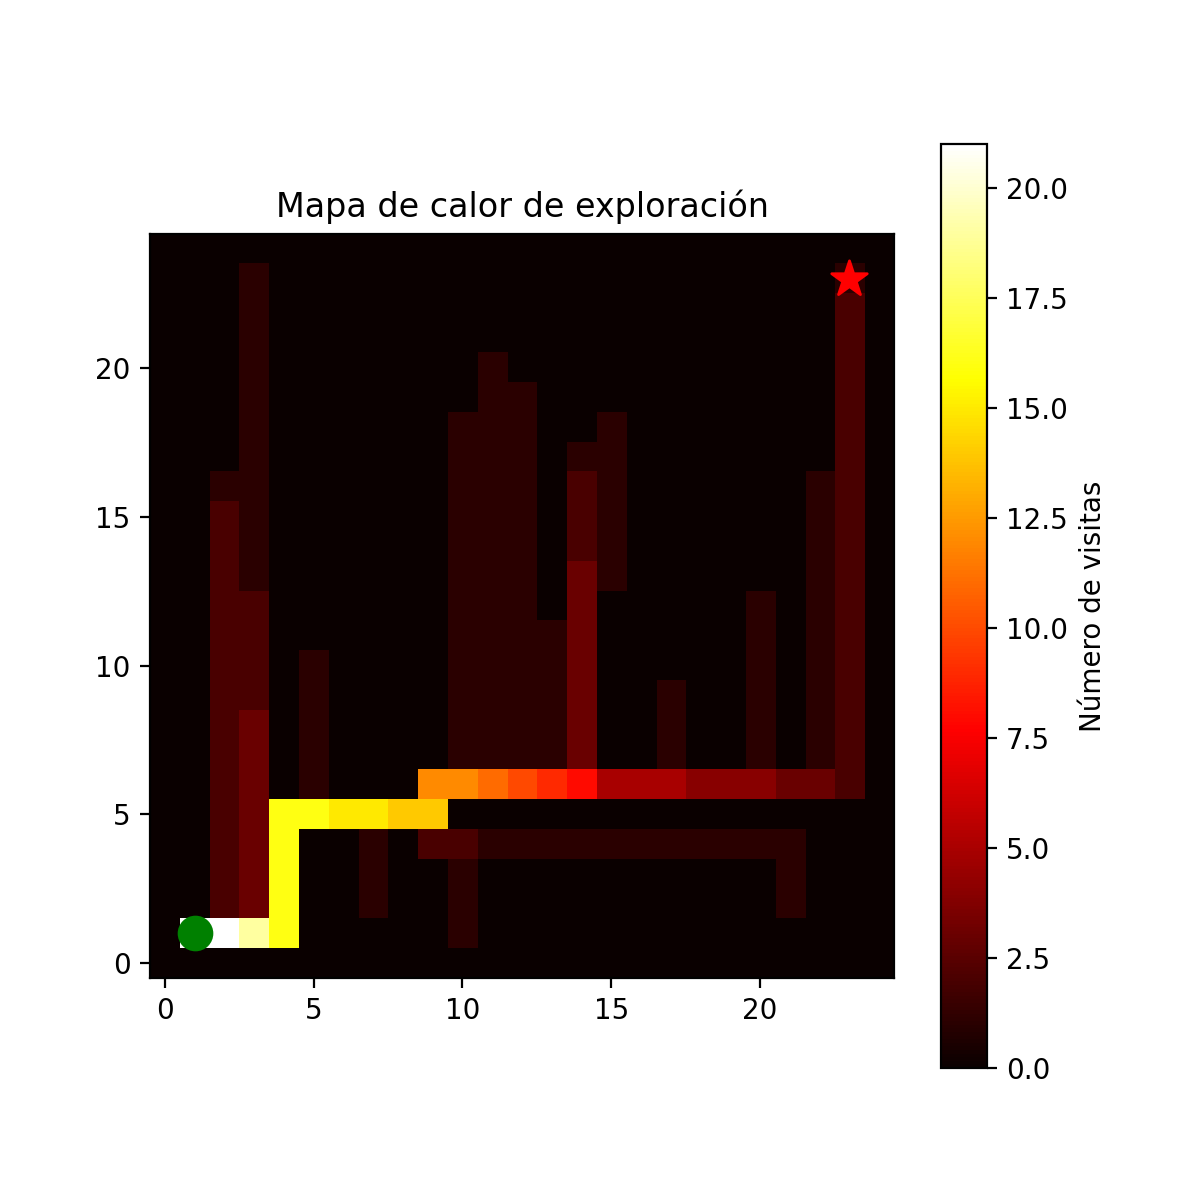
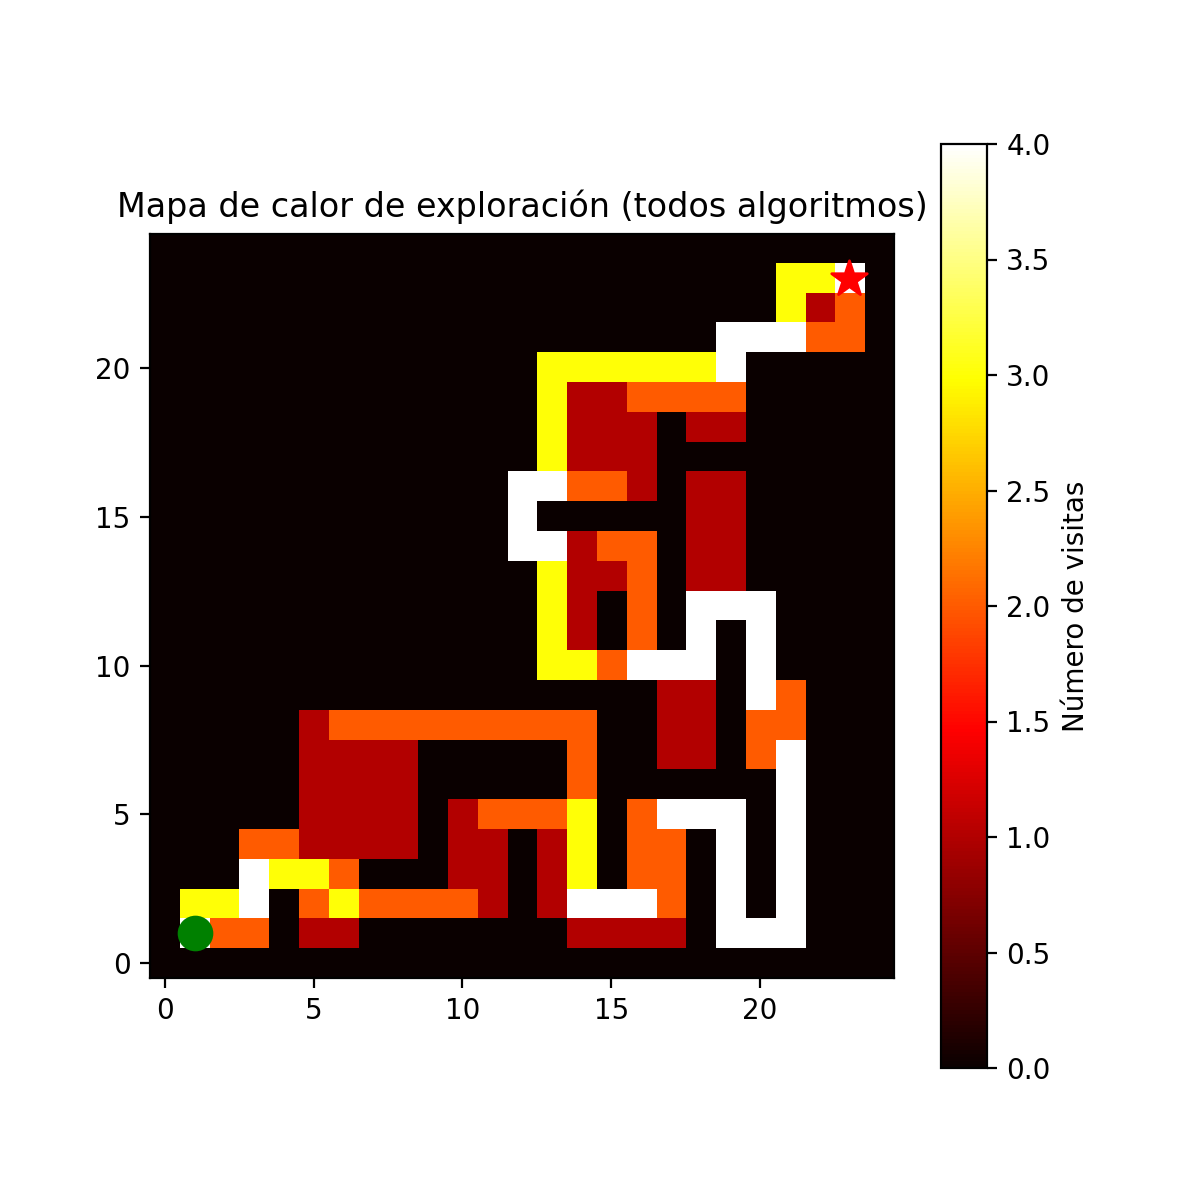
update laberinto

diff --git a/MinecraftAgente/src/laberinto.py b/MinecraftAgente/src/laberinto.py
@@ -24,10 +24,29 @@ def generar_laberinto(origen_x=0, origen_y=5, origen_z=0, tam=25):
 
     # Laberinto interno fijo (paredes)
     paredes = [
-        (5, 0), (5, 1), (5, 2), (5, 3), (5, 4),
-        (10, 5), (11, 5), (12, 5), (13, 5),
-        (15, 10), (15, 11), (15, 12),
-        (20, 15), (20, 16), (20, 17), (20, 18),
+        (1,3),(1, 11),(1,16),
+        (2,3),(2,11),(2,16),
+        (3,5),(3,6),(3,7),(3,8),(3,11),(3,16),(3,18),(3,19),(3,20),(3,21),(3,22),(3,23),
+        (4,1),(4,2),(4,5),(4,6),(4,7),(4,8),(4,9),(4,11),(4,13),(4,14),(4,15),(4,16),(4,18),(4,19),(4,20),(4,21),(4,22),(4,23),
+        (5,9),(5,11),(5,13),
+        (6,9),(6,11),(6,13),
+        (7,3),(7,9),(7,11),(7,13),(7,17),(7,18),(7,19),(7,20),
+        (8,3),(8,9),(8,11),(8,13),(8,16),
+        (9,3),(9,4),(9,5),(9,6),(9,7),(9,9),(9,11),(9,13),(9,17),(9,18),(9,19),(9,20),(9,21),(9,22),(9,23),
+        (10,7),(10,9),(10,11),(10,13),(10,17),
+        (11,7),(11,9),(11,13),(11,17),(11,21),
+        (12,1),(12,2),(12,3),(12,4),(12,7),(12,9),(12,10),(12,11),(12,12),(12,13),(12,17),(12,18),(12,19),(12,20),(12,21),
+        (13,7),(13,9),(13,15),(13,21),
+        (14,9),(14,15),(14,21),
+        (15,3),(15,4),(15,5),(15,6),(15,7),(15,8),(15,9),(15,12),(15,15),(15,21),
+        (16,6),(16,15),(16,21),
+        (17,6),(17,11),(17,12),(17,13),(17,14),(17,15),(17,16),(17,17),(17,18),(17,21),
+        (18,1),(18,2),(18,3),(18,4),(18,6),(18,17),(18,21),
+        (19,6),(19,7),(19,8),(19,9),(19,10),(19,11),(19,17),
+        (20,2),(20,3),(20,4),(20,5),(20,6),(20,13),(20,14),(20,15),(20,16),(20,17),(20,18),(20,19),(20,20),(20,22),(20,23),
+        (21,10),(21,16),(21,20),
+        (22,1),(22,2),(22,3),(22,4),(22,7),(22,10),(22,13),(22,16),(22,17),(22,18),(22,20),
+        (23,7),(23,10),(23,13),(23,20)
     ]
 
     for (x, z) in paredes:
@@ -41,4 +60,74 @@ def generar_laberinto(origen_x=0, origen_y=5, origen_z=0, tam=25):
     mc.setBlock(inicio[0], inicio[1], inicio[2], 35, 5)  # lana verde
     mc.setBlock(salida[0], salida[1], salida[2], 35, 14) # lana roja
 
+    return inicio, salida
+
+
+
+
+def generarlaberinto1(origen_x=0, origen_y=5, origen_z=0, tam=25):
+    # Limpieza y construcción similar a la actual
+    mc.setBlocks(origen_x-2, origen_y, origen_z-2,
+             origen_x+tam+2, origen_y+5, origen_z+tam+2, 0)
+
+    # Paredes exteriores
+    mc.setBlocks(origen_x, origen_y, origen_z,
+                 origen_x+tam, origen_y+3, origen_z, 1)  # muro norte
+    mc.setBlocks(origen_x, origen_y, origen_z+tam,
+                 origen_x+tam, origen_y+3, origen_z+tam, 1)  # muro sur
+    mc.setBlocks(origen_x, origen_y, origen_z,
+                 origen_x, origen_y+3, origen_z+tam, 1)  # muro oeste
+    mc.setBlocks(origen_x+tam, origen_y, origen_z,
+                 origen_x+tam, origen_y+3, origen_z+tam, 1)  # muro este
+
+    # Suelo plano
+    mc.setBlocks(origen_x, origen_y-1, origen_z,
+                 origen_x+tam, origen_y-1, origen_z+tam, 2)
+
+    paredes = [
+        # Muros ejemplo para laberinto 1
+        (5,0), (5,1), (5,2), (5,3), (5,4),
+        (10,5), (11,5), (12,5), (13,5),
+        (15,10), (15,11), (15,12),
+        (20,15), (20,16), (20,17), (20,18)
+    ]
+    # Construcción muros; usa el loop que tienes en la función
+    for x, z in paredes:
+        mc.setBlocks(origen_x+x, origen_y, origen_z+z, origen_x+x, origen_y+2, origen_z+z, 1)
+    inicio = (origen_x + 1, origen_y, origen_z + 1)
+    salida = (origen_x + tam - 1, origen_y, origen_z + tam - 1)
+    mc.setBlock(inicio[0], inicio[1], inicio[2], 35, 5)  # lana verde
+    mc.setBlock(salida[0], salida[1], salida[2], 35, 14)  # lana roja
+    return inicio, salida
+
+def generarlaberinto2(origen_x=0, origen_y=5, origen_z=0, tam=25):
+    paredes = [
+        # Distinta distribución de muros para laberinto 2
+        (2,3), (3,3), (4,3), (5,3), (6,3),
+        (7,10), (8,10), (9,10), (10,10),
+        (15,5), (15,6), (15,7),
+        (18,18), (19,18)
+    ]
+    for x, z in paredes:
+        mc.setBlocks(origen_x+x, origen_y, origen_z+z, origen_x+x, origen_y+2, origen_z+z, 1)
+    inicio = (origen_x + 1, origen_y, origen_z + 1)
+    salida = (origen_x + tam - 5, origen_y, origen_z + tam - 2)
+    mc.setBlock(inicio[0], inicio[1], inicio[2], 35, 5)
+    mc.setBlock(salida[0], salida[1], salida[2], 35, 14)
+    return inicio, salida
+
+def generarlaberinto3(origen_x=0, origen_y=5, origen_z=0, tam=25):
+    paredes = [
+        # Otra distribución diferente para laberinto 3
+        (1,10), (2,10), (3,10), (4,10), (5,10),
+        (10,15), (11,15), (12,15),
+        (14,20), (15,20), (16,20),
+        (21,21), (22,21)
+    ]
+    for x, z in paredes:
+        mc.setBlocks(origen_x+x, origen_y, origen_z+z, origen_x+x, origen_y+2, origen_z+z, 1)
+    inicio = (origen_x + 1, origen_y, origen_z + 1)
+    salida = (origen_x + 3, origen_y, origen_z + tam - 1)
+    mc.setBlock(inicio[0], inicio[1], inicio[2], 35, 5)
+    mc.setBlock(salida[0], salida[1], salida[2], 35, 14)
     return inicio, salida

diff --git a/MinecraftAgente/src/main.py b/MinecraftAgente/src/main.py
@@ -19,15 +19,34 @@ base_z = inicio_world[2] - 1
 # Coordenadas en grilla
 N = 25
 grid_inicio = (1, 1)
-grid_salida = (24, 24)
+grid_salida = (23, 23)
 
 # Construir laberinto (0 = libre, 1 = muro)
 laberinto = {(x, z): 0 for x in range(N) for z in range(N)}
 paredes_internas = [
-    (5,0),(5,1),(5,2),(5,3),(5,4),
-    (10,5),(11,5),(12,5),(13,5),
-    (15,10),(15,11),(15,12),
-    (20,15),(20,16),(20,17),(20,18)
+        (1,3),(1, 11),(1,16),
+        (2,3),(2,11),(2,16),
+        (3,5),(3,6),(3,7),(3,8),(3,11),(3,16),(3,18),(3,19),(3,20),(3,21),(3,22),(3,23),
+        (4,1),(4,2),(4,5),(4,6),(4,7),(4,8),(4,9),(4,11),(4,13),(4,14),(4,15),(4,16),(4,18),(4,19),(4,20),(4,21),(4,22),(4,23),
+        (5,9),(5,11),(5,13),
+        (6,9),(6,11),(6,13),
+        (7,3),(7,9),(7,11),(7,13),(7,17),(7,18),(7,19),(7,20),
+        (8,3),(8,9),(8,11),(8,13),(8,16),
+        (9,3),(9,4),(9,5),(9,6),(9,7),(9,9),(9,11),(9,13),(9,17),(9,18),(9,19),(9,20),(9,21),(9,22),(9,23),
+        (10,7),(10,9),(10,11),(10,13),(10,17),
+        (11,7),(11,9),(11,13),(11,17),(11,21),
+        (12,1),(12,2),(12,3),(12,4),(12,7),(12,9),(12,10),(12,11),(12,12),(12,13),(12,17),(12,18),(12,19),(12,20),(12,21),
+        (13,7),(13,9),(13,15),(13,21),
+        (14,9),(14,15),(14,21),
+        (15,3),(15,4),(15,5),(15,6),(15,7),(15,8),(15,9),(15,12),(15,15),(15,21),
+        (16,6),(16,15),(16,21),
+        (17,6),(17,11),(17,12),(17,13),(17,14),(17,15),(17,16),(17,17),(17,18),(17,21),
+        (18,1),(18,2),(18,3),(18,4),(18,6),(18,17),(18,21),
+        (19,6),(19,7),(19,8),(19,9),(19,10),(19,11),(19,17),
+        (20,2),(20,3),(20,4),(20,5),(20,6),(20,13),(20,14),(20,15),(20,16),(20,17),(20,18),(20,19),(20,20),(20,22),(20,23),
+        (21,10),(21,16),(21,20),
+        (22,1),(22,2),(22,3),(22,4),(22,7),(22,10),(22,13),(22,16),(22,17),(22,18),(22,20),
+        (23,7),(23,10),(23,13),(23,20)
 ]
 for (x, z) in paredes_internas:
     laberinto[(x, z)] = 1
